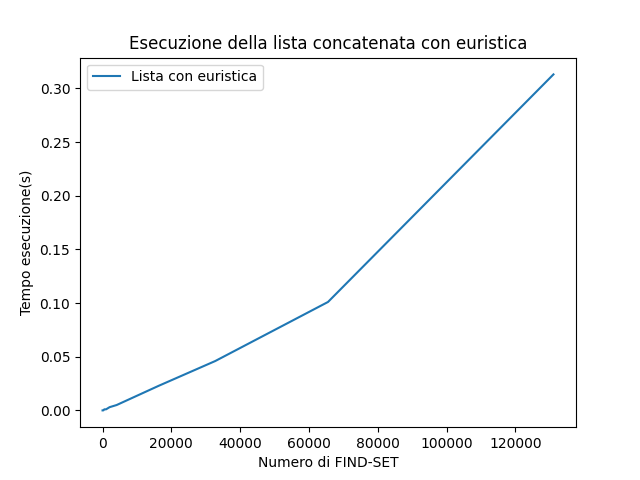
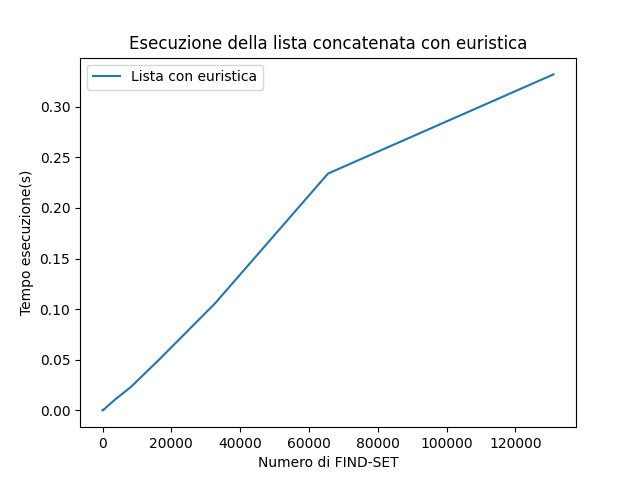
last test

diff --git a/Plot.py b/Plot.py
@@ -12,33 +12,37 @@ class Plot:
         plt.plot(self.n, self.timeChainNoHeuristics, label='Lista senza euristica')
         plt.plot(self.n, self.timeChainHeuristics, label='Lista con euristica')
         plt.plot(self.n, self.timeTree, label='Foresta con compressione')
-        plt.xlabel('Numero di FIND-SET')
+        plt.xlabel('Numero di confronti')
         plt.ylabel('Tempo esecuzione(s)')
         plt.title("Esecuzione complessiva")
         plt.legend()
         plt.savefig('plotAll.png')
         plt.show()
+        plt.close()
     def plotChainNoHeuristics(self):
         plt.plot(self.n, self.timeChainNoHeuristics, label='Lista senza euristica')
-        plt.xlabel('Numero di FIND-SET')
+        plt.xlabel('Numero di confronti')
         plt.ylabel('Tempo esecuzione(s)')
         plt.title("Esecuzione della lista concatenata senza euristica")
         plt.legend()
         plt.savefig('plotChainNoHeuristics.png')
         plt.show()
+        plt.close()
     def plotChainHeuristics(self):
         plt.plot(self.n, self.timeChainHeuristics, label='Lista con euristica')
-        plt.xlabel('Numero di FIND-SET')
+        plt.xlabel('Numero di confronti')
         plt.ylabel('Tempo esecuzione(s)')
         plt.title("Esecuzione della lista concatenata con euristica")
         plt.legend()
         plt.savefig('plotChainHeuristics.png')
         plt.show()
+        plt.close()
     def plotTree(self):
         plt.plot(self.n, self.timeTree, label='Albero con compressione')
-        plt.xlabel('Numero di FIND-SET')
+        plt.xlabel('Numero di confronti')
         plt.ylabel('Tempo esecuzione(s)')
         plt.title("Esecuzione della foresta con compressione")
         plt.legend()
         plt.savefig('plotTree.png')
         plt.show()
+        plt.close()

diff --git a/TreeForest.py b/TreeForest.py
@@ -1,22 +1,9 @@
 class TreeForest:
     def __init__(self, TreeElement):
        self.root = TreeElement
-       self.rank = 0
 
     def union(self, TreeForest):
-        if self.rank > TreeForest.getRank():
-           TreeForest.getRoot().setFather(self.root)
-        else:
-            self.root.setFather(TreeForest.getRoot())
-            if self.rank == TreeForest.getRank():
-                TreeForest.setRank(TreeForest.getRank() + 1)
-
+        TreeForest.getRoot().setFather(self.root)
+        TreeForest.getRoot().setTreeForest(self)
     def getRoot(self):
         return self.root
-
-    def getRank(self):
-        return self.rank
-
-    def setRank(self, rank):
-        self.rank = rank
-

diff --git a/main.py b/main.py
@@ -11,9 +11,8 @@ timeChainHeuristics = []
 timeTree = []
 n = []
 
-
 #Lista concatenata senza euristica
-for i in range(1,15):
+for i in range(1,11):
     numElement = (int)(math.pow(2, i))
     n.append(numElement)
     elements = []
